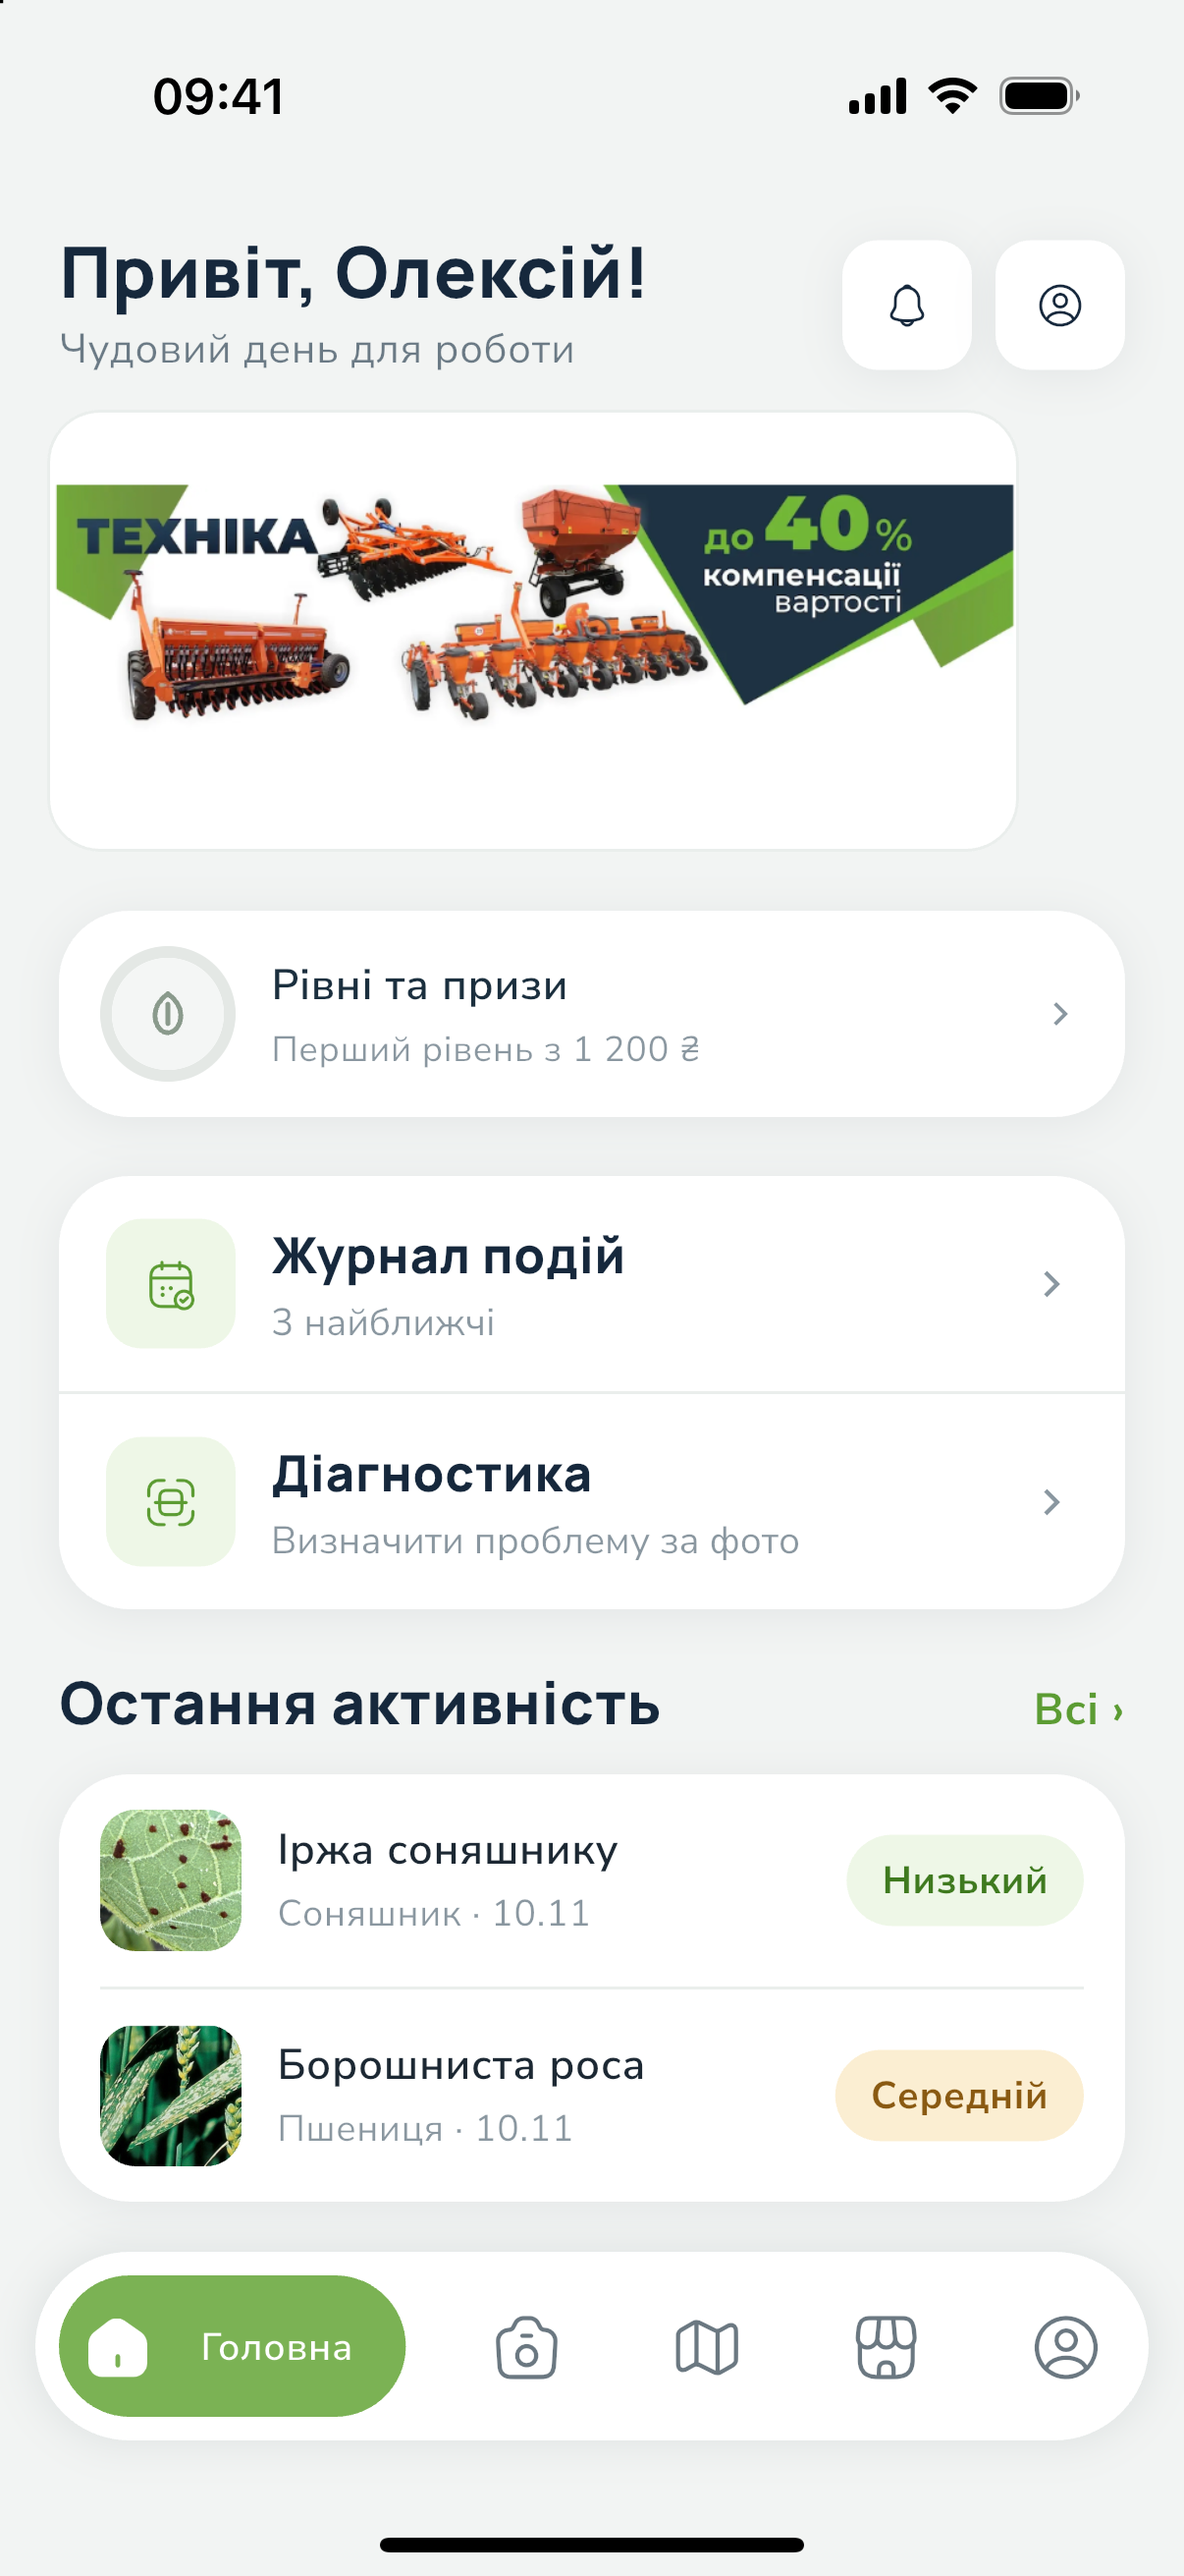
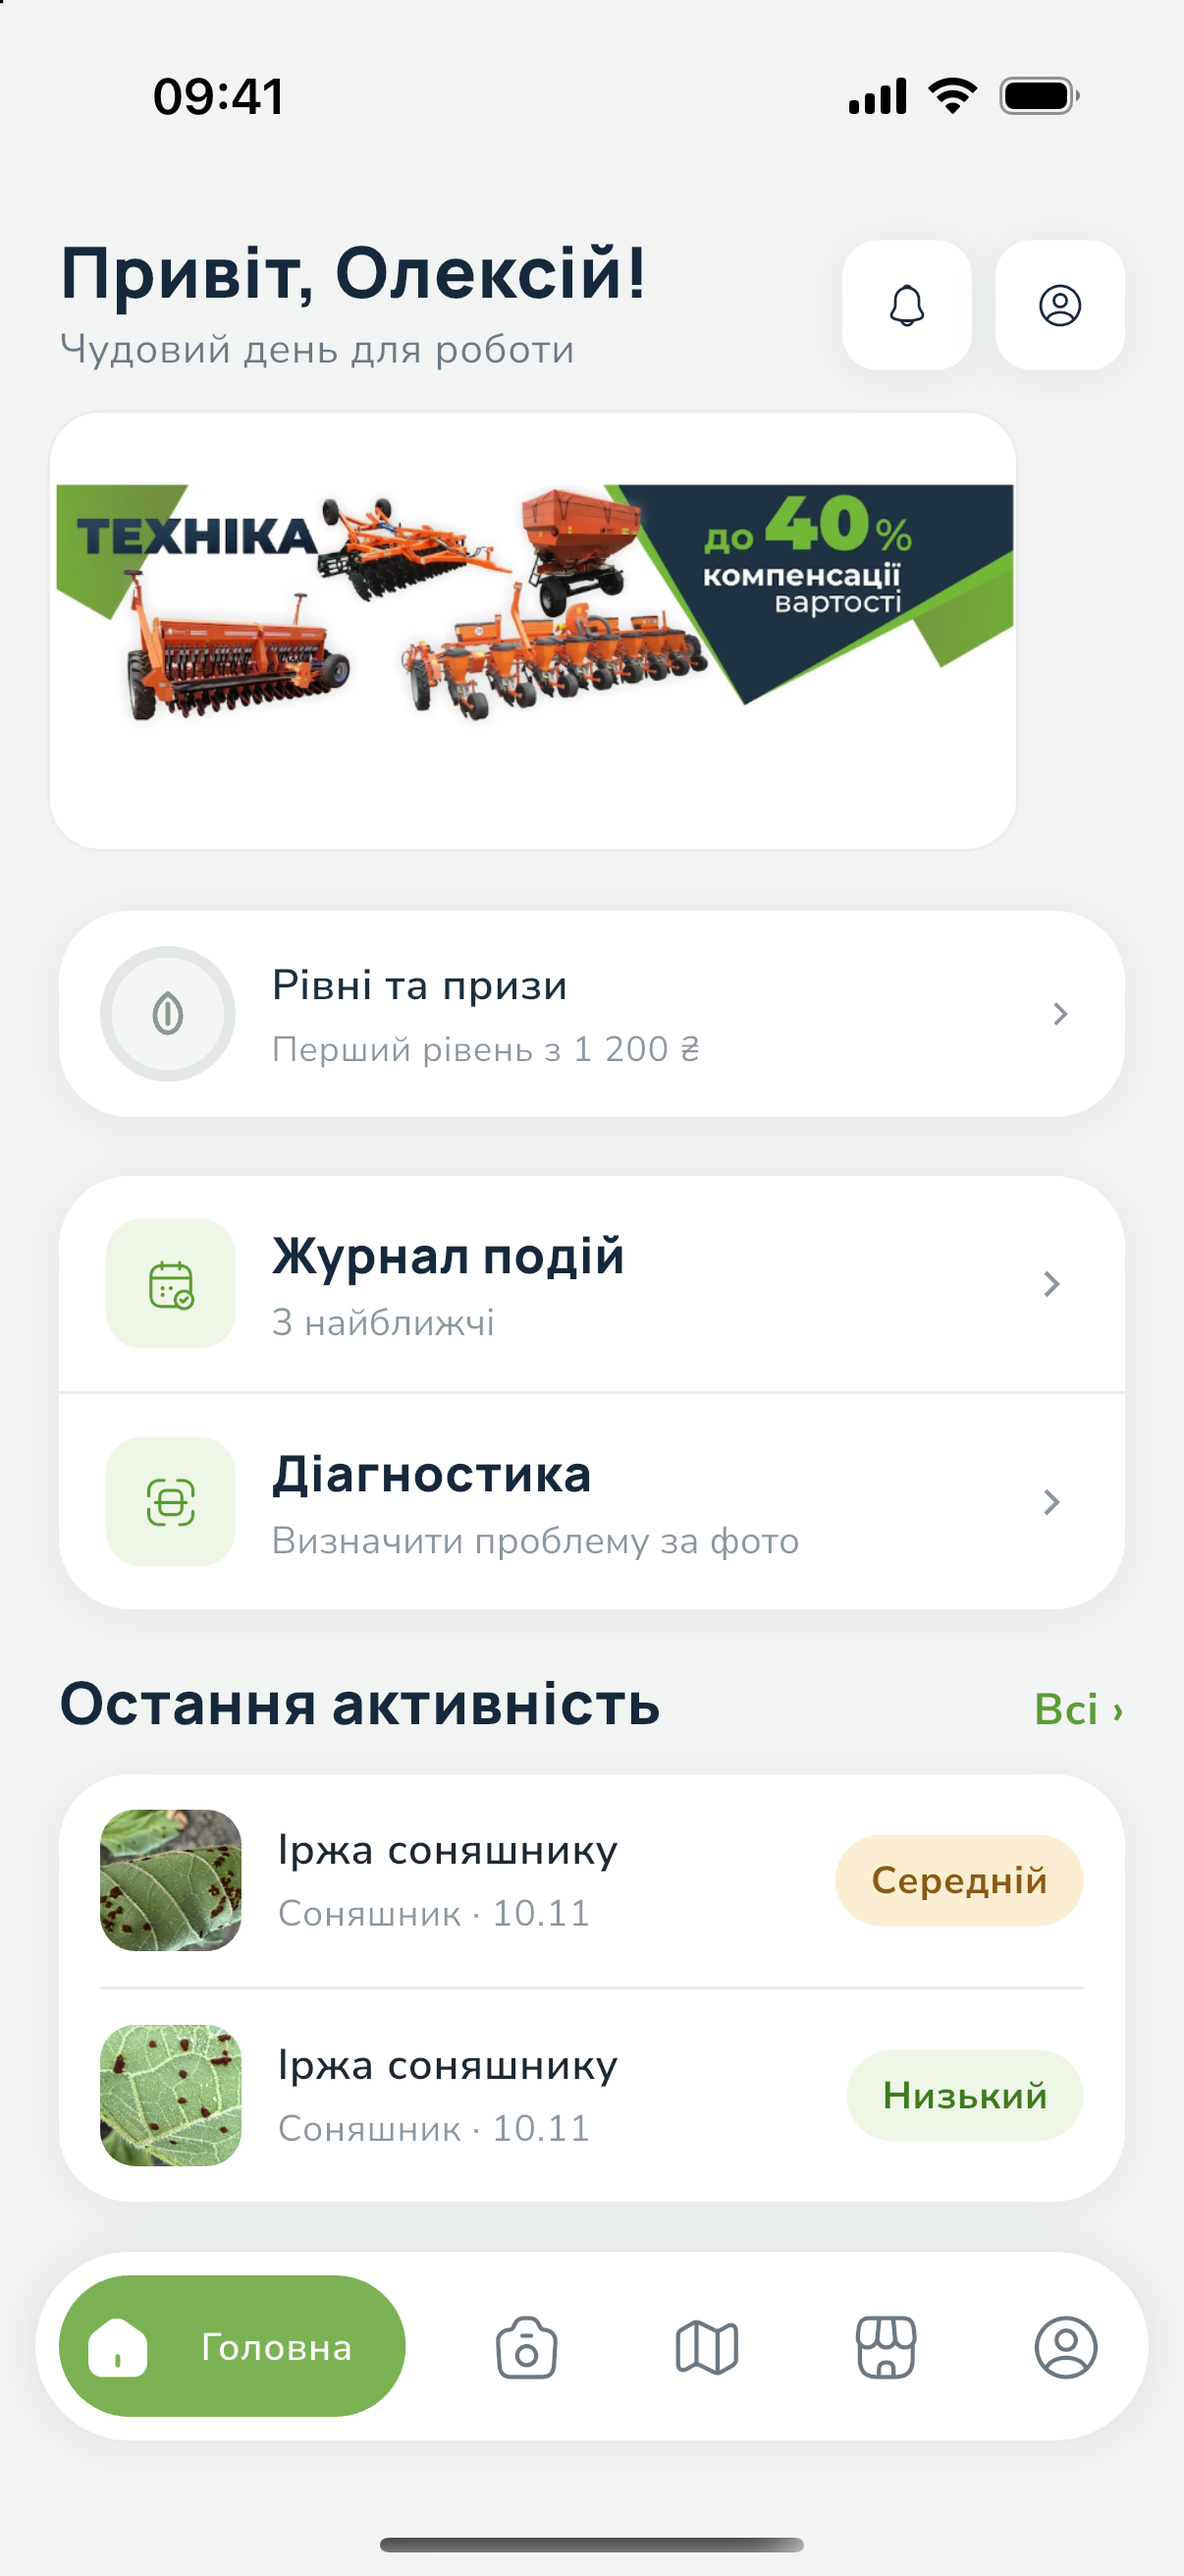
docs(design): retake diagnosis screens on real farmer photos

diff --git a/docs/design/2026-11-10-landing-relaunch/README.md b/docs/design/2026-11-10-landing-relaunch/README.md
@@ -42,12 +42,11 @@
 | `app-field-detail@iphone16pro.png` | Поле №5, «Огляд»: погода, вологість ґрунту, СЕТ, дні від сівби | Не для сайту: NDVI «тимчасово недоступні», у «Фазі росту» сирий ключ `unsupported_culture` |
 | `app-shop@iphone16pro.png` | Магазин: 297 товарів, категорії, бренди | Закупівля |
 | `app-diagnosis@iphone16pro.png` | «Знайомтесь, Мокоша»: що вміє асистент | Діагностика за фото |
-| `app-diagnosis-result@iphone16pro.png` | Результат аналізу пшениці: 62/100, пояснення | Діагностика за фото |
+| `app-diagnosis-result@iphone16pro.png` | Результат аналізу соняшнику (фото фермера): іржа, 62/100, пояснення | Діагностика за фото |
 | `app-diagnosis-history@iphone16pro.png` | Історія діагностик | Діагностика за фото |
 
 ## Обмеження
 
-- У шапці кабінету — назва компанії `GRANO-APP` і рядок адміністратора `Grano-app` у «Команді»: службові назви тестового акаунта. Перед публікацією обрізати або замінити назву компанії в адмінці.
-- Фото на `cabinet-diagnosis@1440.png` — з папки `grano/images/Хвороби`, джерело й права на нього невідомі. На сайт не ставити, доки не буде власного фото.
-- Фото на діагностичних екранах застосунку — ті самі, з невідомими правами.
-- На «Головній» застосунку — банер «Техніка до 40% компенсації вартості» з бекенду: це актуальна акція партнера чи тестовий банер — перевірити перед публікацією.
+- Назва компанії `GRANO-APP` у шапці кабінету й рядок адміністратора `Grano-app` у «Команді» лишаються — рішення 2026-11-10.
+- Діагностика знята на справжніх фото фермерів з `grano/images/Хвороби/untitled folder` (іржа соняшнику). Стокове фото пшениці з `Пшениця-борошниста-роса/` прибрано з даних і скріншотів.
+- Банер «Техніка до 40% компенсації вартості» на «Головній» застосунку — актуальна акція.

diff --git a/docs/superpowers/specs/2026-11-10-landing-relaunch.md b/docs/superpowers/specs/2026-11-10-landing-relaunch.md
@@ -57,7 +57,7 @@
 - **Умови:** реєстрація й перший місяць — безкоштовно. Ціну не показуємо.
 - **Реєстрація** відбувається в застосунку; веб-кабінет — тим самим акаунтом.
 - **Значки сторів:** показуємо зі справжніми посиланнями (App Store `id6787681145`, Google Play `grano.app.com`) — рішення 2026-11-10, лістинги вже публічні. UTM додаємо на етапі 3.
-- **Контакти:** телефон `+380 66 797 50 07` (рішення 2026-11-10). Пошта `support@grano-app.com` лишається, доки не підтверджено, чи скринька існує.
+- **Контакти:** телефон `+380 66 797 50 07`, пошта `support@grano-app.com` (скринька існує) — рішення 2026-11-10.
 
 ### 3.5 Довіра
 - Блок «Хто за Grano»: агрофірма, 10+ років, 3 000+ клієнтів, логотипи виробників, регіони.
@@ -121,9 +121,8 @@
 - **Логотип:** справжній — `fs-admin/public/brands/grano/logo.png` («GRANO» з листком); на сайті зараз тимчасовий SVG «GRAN».
 
 ## 6. Відкриті питання
-- Назва компанії в шапці кабінету на скріншотах — `GRANO-APP`: перейменувати акаунт чи обрізати шапку.
-- Фото для діагностики з правами на публікацію (поточне — з `grano/images/Хвороби`, джерело невідоме).
-- Чи існує скринька `support@grano-app.com`.
+
+Закрито 2026-11-10: назва компанії на скріншотах лишається `grano-app`; банер «Техніка до 40% компенсації» в застосунку — актуальна акція; фото для діагностики — справжні фото фермерів з `grano/images/Хвороби/untitled folder` (іржа соняшнику), стокове фото пшениці прибрано.
 - Логотип у векторі (SVG) — чи є у дизайнера.
 
 ## 7. Етап 0 — зроблено 2026-11-10
